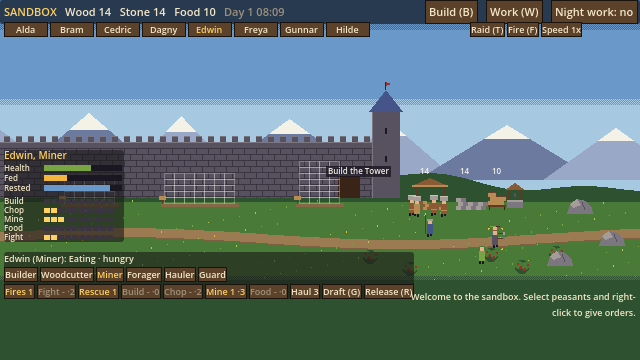
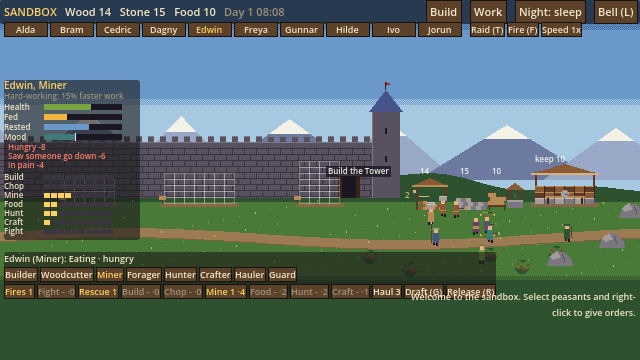
Sandbox: mood from thoughts and memories; very low mood makes a peasant sulk
Claude-Session: https://claude.ai/code/session_01KRfBmN2ZEbarco8VY7eoa6

diff --git a/sandbox/README.md b/sandbox/README.md
@@ -69,6 +69,14 @@ Open `sandbox/sandbox.tscn` in Godot and press **F6** (Run Current Scene).
      stockyard to steal (dropped loot can be hauled back). Each carries a torch and
      may set one building alight as they pass it: fires knock blocks off until put
      out (a fire with nothing left to burn dies down).
+   - **Mood:** each peasant's mood drifts towards 55 plus their thoughts: needs
+     (hungry, tired), states (in pain, drafted, Night work) and memories that
+     fade (ate a meal, slept in a bed or on the ground, was hurt, saw someone go
+     down, a raid beaten). The card shows the mood bar, where it is heading (a
+     tick) and the strongest thoughts. At 75 and up they work 10% faster. Below
+     15, someone left to themselves has had enough and sulks for 30 seconds (a
+     little dark cloud), then feels better; orders, drafting and the bell still
+     come first.
    - **Traits** (as in the main game): Quick and Slow walk faster or slower,
      Hard-working and Lazy work faster or slower. Shown on the card.
    - **Dozing** (one of the "small things to click"): by day, someone working while

diff --git a/sandbox/DESIGN.md b/sandbox/DESIGN.md
@@ -72,8 +72,10 @@ something. Buildings stand at the back edge; the hurt lie in front of the Hut.
 1. **Jobs or priorities in front?** Is the Work overview (W) too much? It could
    be hidden behind a "Details" button, leaving only jobs.
 2. **Should orders beat needs?** Now an ordered peasant works on even when
-   starving (slower). RimWorld lets a starving colonist break; we could add
-   "breaks" (refuse orders, sit down) when needs are at 100.
+   starving (slower). A first version of breaks is in: mood below 15 makes a
+   peasant left to themselves sulk for a while, but orders and drafting still
+   come first. RimWorld goes further: a break ignores orders too. Which feels
+   right here?
 3. **Skills or trades?** Skills grow by doing here. The main game buys trades
    with renown (a trained peasant wears a hat). Both could live together:
    trades unlock a job, skills make a person good at it.
